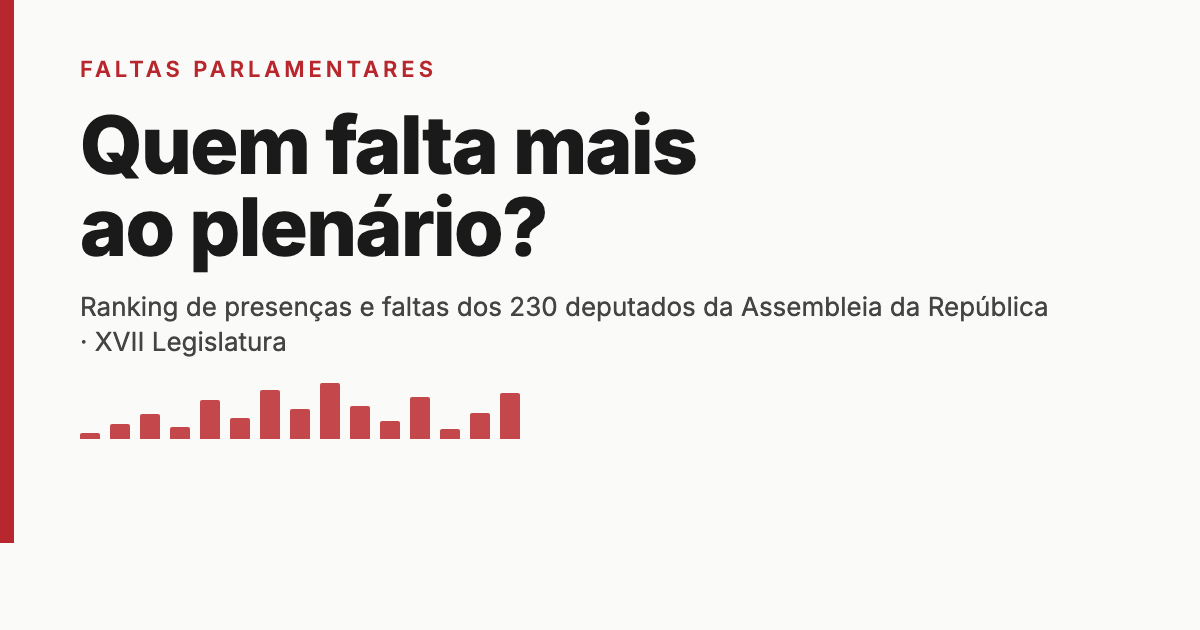
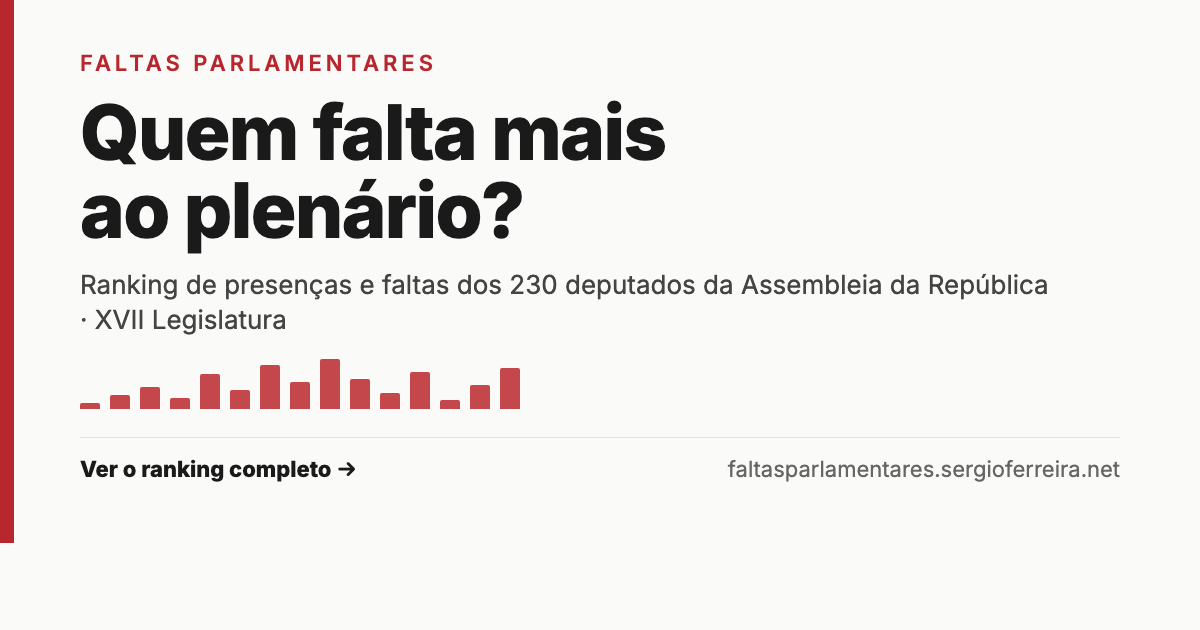
fix(seo): título, descrição e CTA na imagem da homepage
Recomendações do opengraph.xyz: título demasiado curto, descrição
demasiado curta, e imagem sem call-to-action.

- Título da homepage: "Ranking de faltas em plenário · XVII
  Legislatura" (de 17 para ~50 caracteres antes do sufixo).
- Descrição da homepage: estende para ~160 caracteres, dentro da
  janela ótima 110-160.
- Imagem OG: adiciona linha "Ver o ranking completo →" e o URL
  ancorada ao fundo, com layout reorganizado para evitar o crop
  que acontecia antes em headless Chrome.

diff --git a/site/scripts/og.html b/site/scripts/og.html
@@ -17,10 +17,7 @@
     font-family: "Inter", -apple-system, system-ui, sans-serif;
     background: #fafaf8;
     color: #1a1a1a;
-    padding: 56px 80px;
-    display: flex;
-    flex-direction: column;
-    justify-content: space-between;
+    padding: 50px 80px;
     position: relative;
   }
   .accent-bar {
@@ -37,26 +34,26 @@
     color: #b8272d;
   }
   h1 {
-    font-size: 80px;
+    font-size: 76px;
     font-weight: 800;
     line-height: 1.02;
     letter-spacing: -0.02em;
-    margin-top: 22px;
+    margin-top: 18px;
     color: #1a1a1a;
   }
   .sub {
     font-size: 26px;
     color: #444;
     line-height: 1.35;
-    margin-top: 22px;
+    margin-top: 18px;
     max-width: 980px;
   }
   .bars {
     display: flex;
     align-items: flex-end;
     gap: 10px;
-    height: 56px;
-    margin-top: 24px;
+    height: 50px;
+    margin-top: 22px;
   }
   .bars span {
     width: 20px;
@@ -64,45 +61,44 @@
     opacity: 0.85;
     border-radius: 2px 2px 0 0;
   }
-  footer {
-    position: absolute;
-    left: 80px;
-    right: 80px;
-    bottom: 36px;
+  .cta {
+    margin-top: 28px;
+    padding-top: 18px;
+    border-top: 1px solid #e5e3de;
     display: flex;
     justify-content: space-between;
     align-items: baseline;
-    border-top: 1px solid #e5e3de;
-    padding-top: 18px;
     font-size: 22px;
-    color: #666;
   }
-  footer .url { font-weight: 600; color: #1a1a1a; }
+  .cta .action { color: #1a1a1a; font-weight: 700; }
+  .cta .url { color: #666; font-weight: 400; }
 </style>
 </head>
 <body>
   <div class="accent-bar"></div>
-  <div>
-    <div class="eyebrow">Faltas parlamentares</div>
-    <h1>Quem falta mais<br/>ao plenário?</h1>
-    <p class="sub">Ranking de presenças e faltas dos 230 deputados da Assembleia da República · XVII Legislatura</p>
-    <div class="bars">
-      <span style="height: 12%"></span>
-      <span style="height: 28%"></span>
-      <span style="height: 45%"></span>
-      <span style="height: 22%"></span>
-      <span style="height: 70%"></span>
-      <span style="height: 38%"></span>
-      <span style="height: 88%"></span>
-      <span style="height: 55%"></span>
-      <span style="height: 100%"></span>
-      <span style="height: 60%"></span>
-      <span style="height: 32%"></span>
-      <span style="height: 75%"></span>
-      <span style="height: 18%"></span>
-      <span style="height: 48%"></span>
-      <span style="height: 82%"></span>
-    </div>
+  <div class="eyebrow">Faltas parlamentares</div>
+  <h1>Quem falta mais<br/>ao plenário?</h1>
+  <p class="sub">Ranking de presenças e faltas dos 230 deputados da Assembleia da República · XVII Legislatura</p>
+  <div class="bars">
+    <span style="height: 12%"></span>
+    <span style="height: 28%"></span>
+    <span style="height: 45%"></span>
+    <span style="height: 22%"></span>
+    <span style="height: 70%"></span>
+    <span style="height: 38%"></span>
+    <span style="height: 88%"></span>
+    <span style="height: 55%"></span>
+    <span style="height: 100%"></span>
+    <span style="height: 60%"></span>
+    <span style="height: 32%"></span>
+    <span style="height: 75%"></span>
+    <span style="height: 18%"></span>
+    <span style="height: 48%"></span>
+    <span style="height: 82%"></span>
+  </div>
+  <div class="cta">
+    <span class="action">Ver o ranking completo →</span>
+    <span class="url">faltasparlamentares.sergioferreira.net</span>
   </div>
 </body>
 </html>